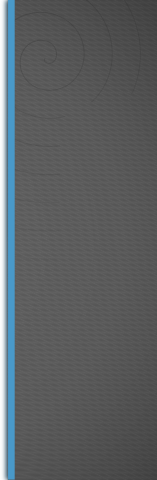
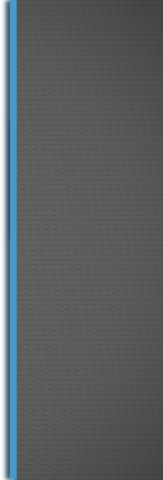
Вырезан светофор  + Беспощадно вырезан светофор. Совсем.  + Убрана спиралька. Всё равно она была так нарисована, что её небыло под светофором. И если убрать светофор - оставалось пустое место...

Changed region(s): [[0.051, 0.0, 0.1274, 1.0]]

diff --git a/qml/QtMon/main.qml b/qml/QtMon/main.qml
@@ -1867,91 +1867,7 @@ Rectangle {
         }
 
 
-        // Светофор
-        Image {
-            id: name
-            source: "Slices/Panel-Right-Lightbox-Bck.png"
-            anchors.right: parent.right
-            anchors.rightMargin: getDriveModeLetter(stateView.DriveModeFact) != "Т" ? -3 : -width
-            anchors.bottom: parent.bottom
-            anchors.bottomMargin: 55
-            Behavior on anchors.rightMargin { SmoothedAnimation { duration: 1000 } }
 
-            ListView {
-                id: lightsPanel
-                width: 54
-                height: 280
-                interactive: false
-                anchors.horizontalCenter: parent.horizontalCenter
-                anchors.verticalCenter: parent.verticalCenter
-                anchors.verticalCenterOffset: 8
-
-                currentIndex: 2
-
-                delegate: Item {
-                    height: 55
-                    width: 54
-
-                    Rectangle {
-                        anchors.fill: parent
-                        color: "#00000000"
-
-                        Image {
-                            id: lightOffImage
-                            anchors.horizontalCenter: parent.horizontalCenter
-                            anchors.verticalCenter: parent.verticalCenter
-                            source: "Slices/Light-Off.png"
-                        }
-                        Image {
-                            id: lightOnImage
-                            anchors.horizontalCenter: parent.horizontalCenter
-                            anchors.verticalCenter: parent.verticalCenter
-                            source: "Slices/Light-" + name + ".png"
-                            opacity: 0
-                        }
-
-                        state: stateView.Light == permissiveIndex ? "On" : "Off"
-
-                        states: [
-                            State {
-                                name: "On"
-                                PropertyChanges { target: lightOnImage; opacity: 1 }
-                                PropertyChanges { target: lightOffImage; opacity: 0 }
-                            },
-                            State {
-                                name: "Off"
-                            }
-                        ]
-
-                        transitions: Transition {
-                            NumberAnimation { targets: [lightOnImage, lightOffImage]; properties: "opacity"; easing.type: Easing.InQuad; duration: 300 }
-                        }
-                    }
-                }
-                model: ListModel {
-                    ListElement {
-                        name: "Green"
-                        permissiveIndex: 3
-                    }
-                    ListElement {
-                        name: "Yellow"
-                        permissiveIndex: 2
-                    }
-                    ListElement {
-                        name: "YellowRed"
-                        permissiveIndex: 1
-                    }
-                    ListElement {
-                        name: "Red"
-                        permissiveIndex: 0
-                    }
-                    ListElement {
-                        name: "White"
-                        permissiveIndex: -1
-                    }
-                }
-            }
-        }
     }
 
 
